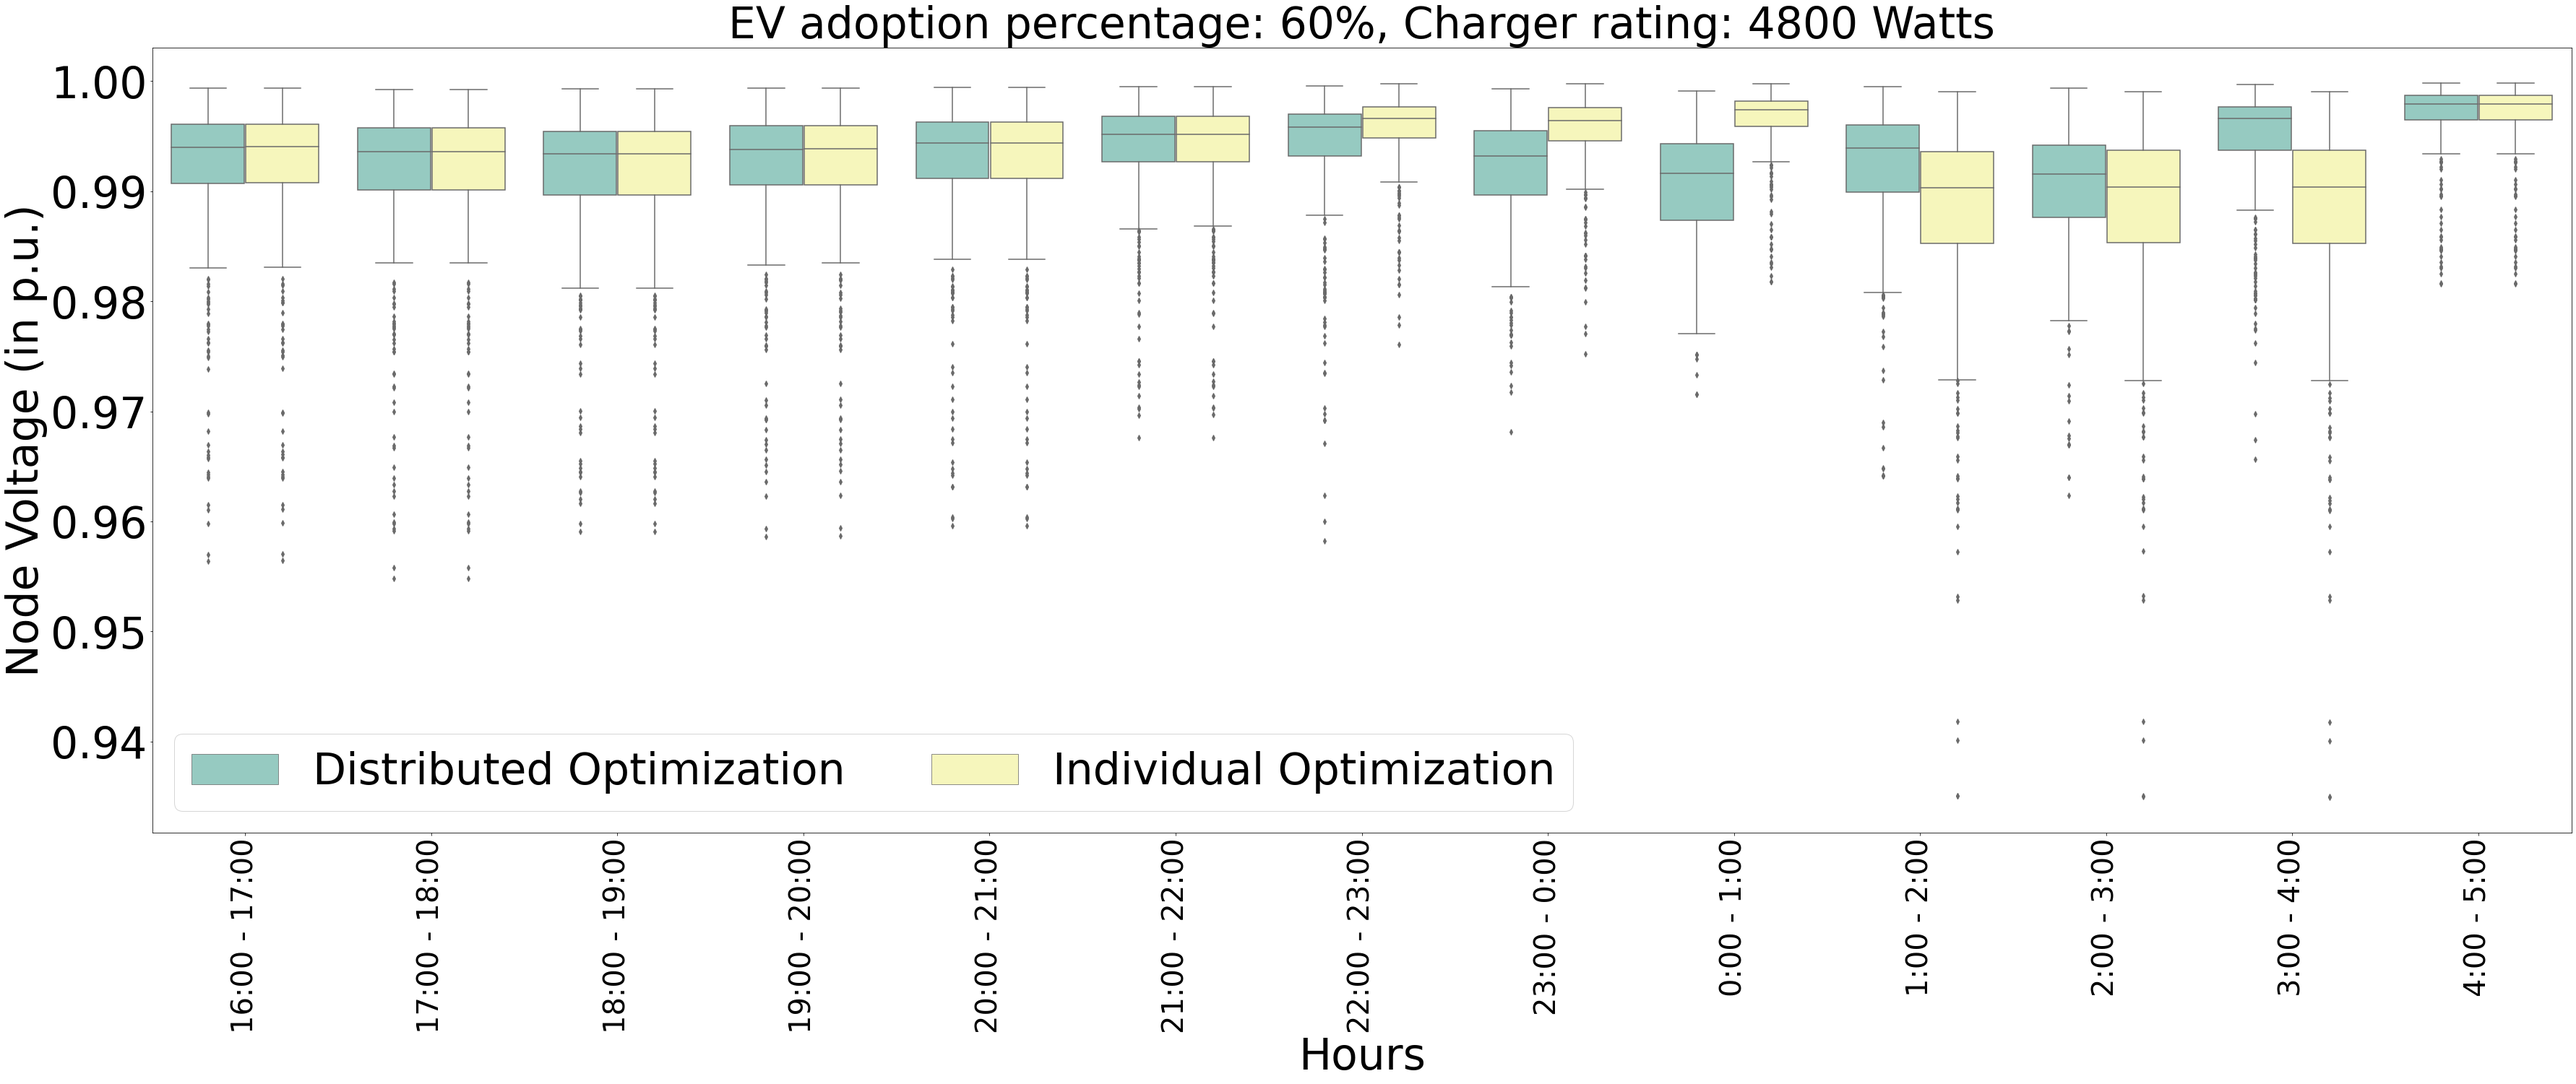
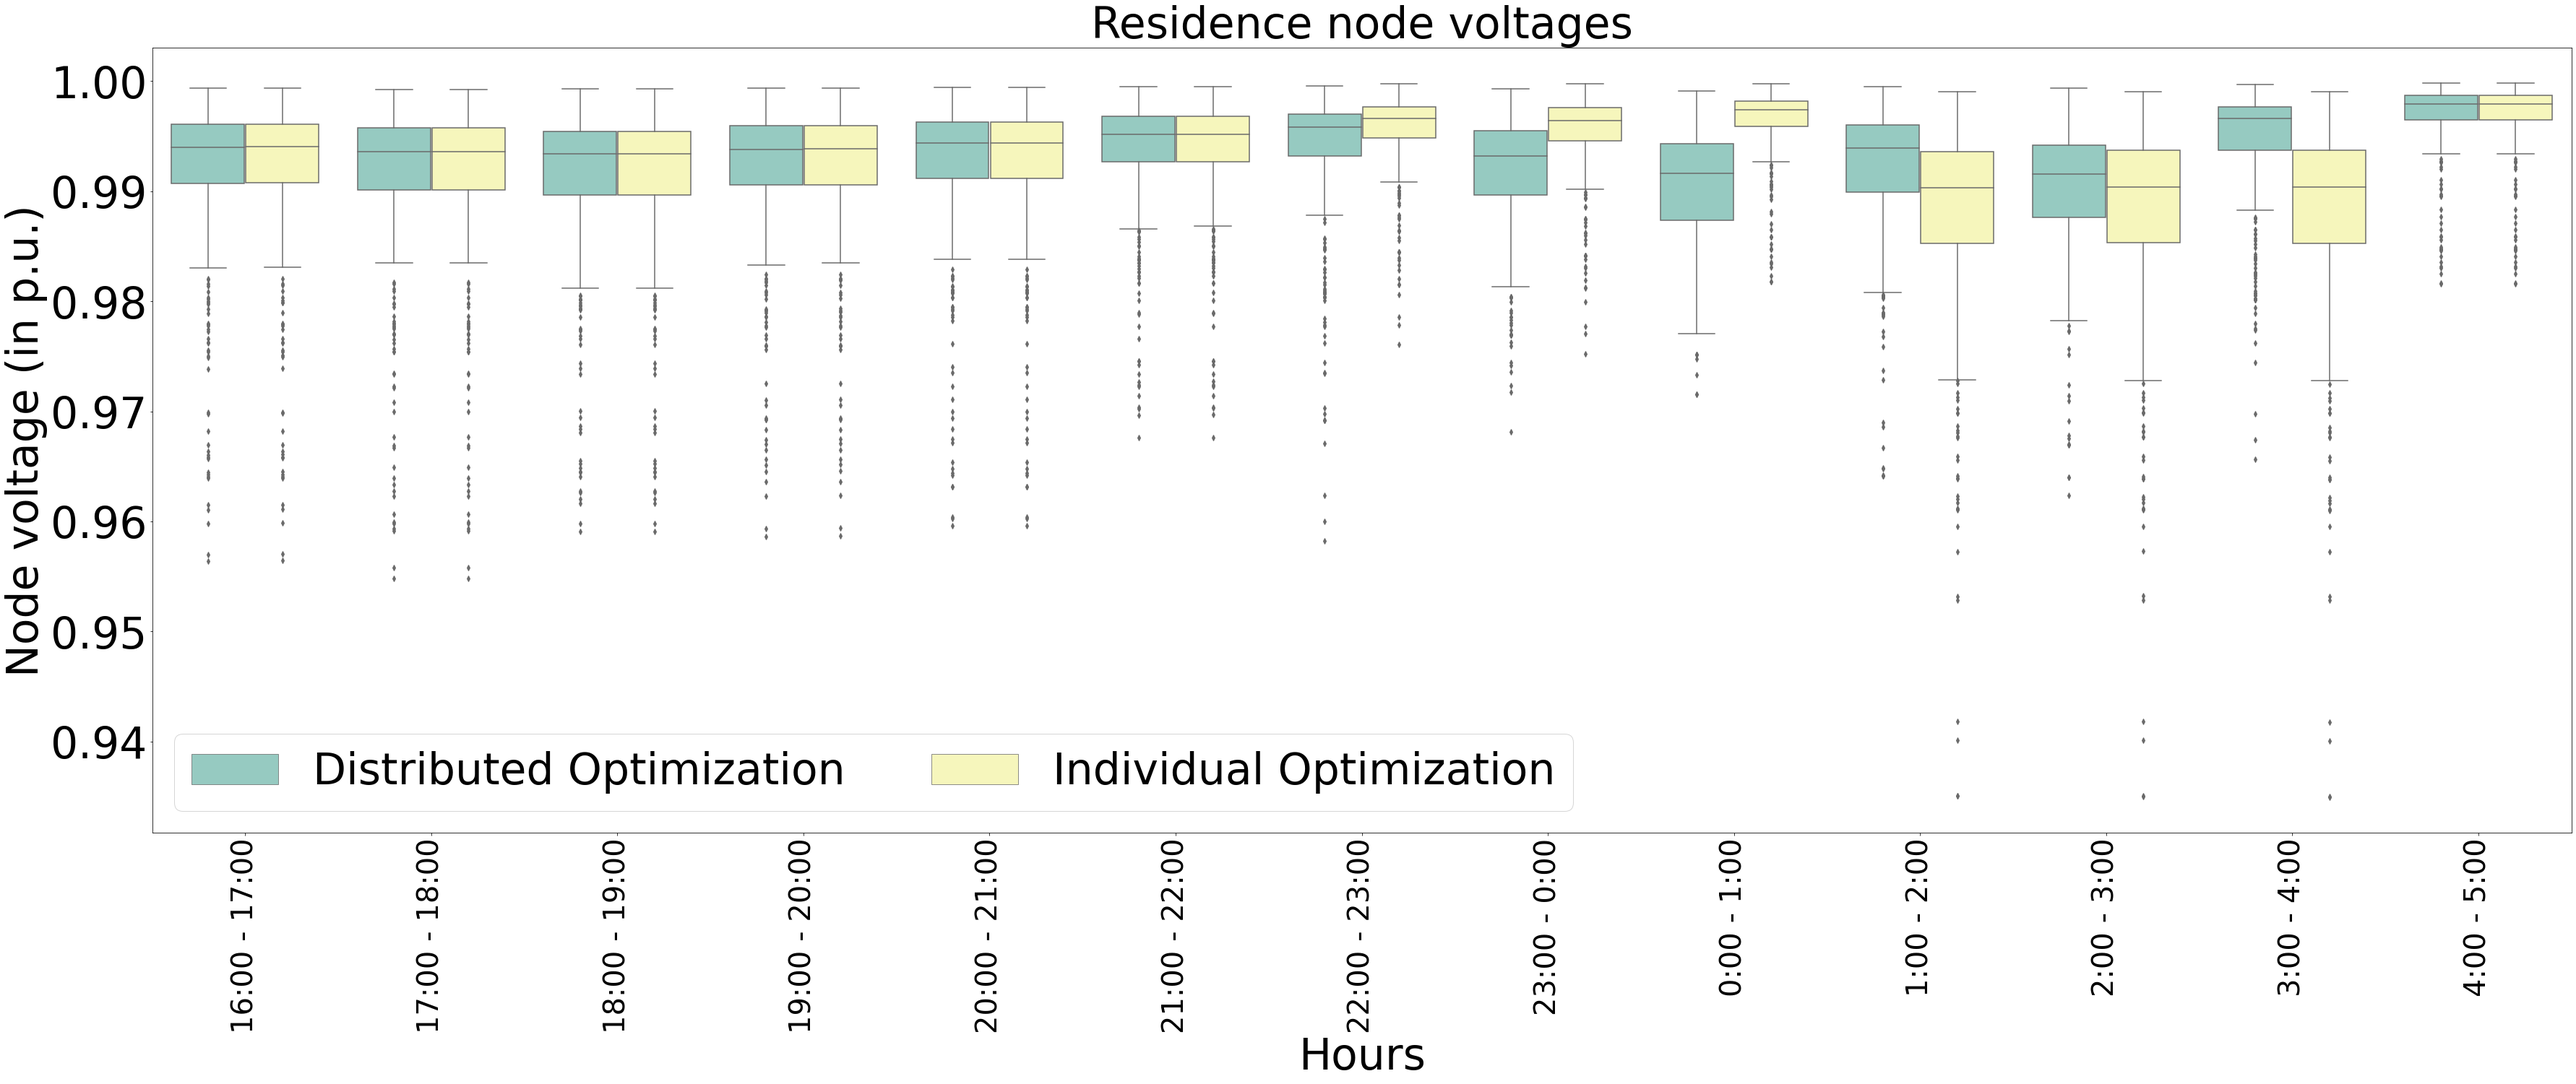
updated figs

Changed region(s): [[0.2802, 0.0, 0.7784, 0.0613]]

diff --git a/test-dist-ind-opt.py b/test-dist-ind-opt.py
@@ -20,7 +20,7 @@ workpath = os.getcwd()
 libpath = workpath + "/libs/"
 figpath = workpath + "/figs/"
 outpath = workpath + "/out/"
-distpath = workpath + "/input/osm-primnet/"
+distpath = workpath + "/input/"
 grbpath = workpath + "/gurobi/"
 homepath = workpath + "/input/load/121-home-load.csv"
 
@@ -76,29 +76,32 @@ def plot_network(ax,net,ev_home=[]):
     return ax
 
 
-def draw_boxplot(df,ax=None,a=None,r=None,val="voltage"):
+def draw_boxplot(df,ax=None,a=None,r=None,val="voltage",colset="Set2"):
     if ax == None:
         fig = plt.figure(figsize=(60,20))
         ax = fig.add_subplot(1,1,1)
     ax = sns.boxplot(x="hour", y=val, hue="group",
-                 data=df, palette="Set3",ax=ax)
-    if r==None and a==None:
-        ax.set_title("")
-    if r==None and a!=None:
-        ax.set_title("EV adoption percentage: "+str(a)+"%",
-                     fontsize=60)
-    if r!=None and a==None:
-        ax.set_title("EV charger rating: "+str(r)+" Watts",
-                     fontsize=60)
-    if r!=None and a!=None:
-        ax.set_title("EV adoption percentage: "+str(a)+"%",
-                     fontsize=60)
+                 data=df, palette=colset,ax=ax)
+    # if r==None and a==None:
+    #     ax.set_title("")
+    # if r==None and a!=None:
+    #     ax.set_title("EV adoption percentage: "+str(a)+"%",
+    #                  fontsize=60)
+    # if r!=None and a==None:
+    #     ax.set_title("EV charger rating: "+str(r)+" Watts",
+    #                  fontsize=60)
+    # if r!=None and a!=None:
+    #     ax.set_title("EV adoption percentage: "+str(a)+"%",
+    #                  fontsize=60)
+    
     ax.tick_params(axis='y',labelsize=60)
     ax.tick_params(axis='x',rotation=90,labelsize=40)
     if val == 'voltage':
-        ax.set_ylabel("Node Voltage (in p.u.)",fontsize=60)
+        ax.set_ylabel("Node voltage (in p.u.)",fontsize=60)
+        ax.set_title("Residence node voltages",fontsize=60)
     elif val == 'loading':
-        ax.set_ylabel("Percentage Edge Loading Level",fontsize=60)
+        ax.set_ylabel("Percentage loading level",fontsize=60)
+        ax.set_title("Distribution line loading level",fontsize=60)
     ax.set_xlabel("Hours",fontsize=60)
     ax.legend(ncol=3,prop={'size': 60})
     return ax
@@ -241,7 +244,7 @@ def compare_method(path,adopt,rate,graph,node_interest,seed = [1234],
                 data['hour'].append(hr)
                 data['group'].append("Individual Optimization")
     df = pd.DataFrame(data)
-    ax = draw_boxplot(df,ax=ax,a=adopt,r=rate)
+    ax = draw_boxplot(df,ax=ax,a=adopt,r=rate,colset="Set3")
     return ax
 
 
@@ -302,7 +305,7 @@ def compare_adoption(path,adopt_list,rate,graph,node_interest,seed = [1234],
     
     # Construct the dataframe from dictionary
     df = pd.DataFrame(data)
-    ax = draw_boxplot(df,ax=ax,r=rate)
+    ax = draw_boxplot(df,ax=ax,r=rate,colset = "Set3")
     return ax
 
 def compare_method_flows(path,adopt,rate,graph,seed=[1234],
@@ -335,7 +338,7 @@ def compare_method_flows(path,adopt,rate,graph,seed=[1234],
                 data['hour'].append(hr)
                 data['group'].append("Individual Optimization")
     df = pd.DataFrame(data)
-    ax = draw_boxplot(df,ax=ax,a=adopt,r=rate,val="loading")
+    ax = draw_boxplot(df,ax=ax,a=adopt,r=rate,val="loading",colset = "Set2")
     return ax
 
 
